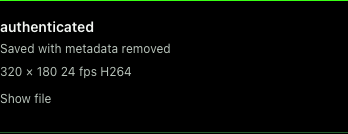
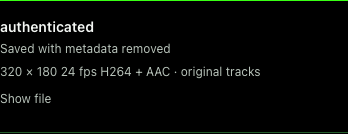
Default to compatible H.264 and AAC MP4 downloads

Changed region(s): [[0.5172, 0.5075, 0.7471, 0.597], [0.3736, 0.4776, 0.4885, 0.5672]]

diff --git a/docs/index.html b/docs/index.html
@@ -30,25 +30,25 @@
       <header class="hero">
         <div>
           <h1>Right-click.<br>Keep quality.<br>Strip metadata.</h1>
-          <p>Video Downloader saves clean MP4s and original images in Chrome.</p>
+          <p>Clean H.264/AAC MP4s by default, plus original images in Chrome.</p>
           <div class="actions"><a class="button" href="https://github.com/Abomination81/video-downloader/releases/latest/download/Video-Downloader.zip">Download installer ZIP</a><a href="#install">How to install</a></div>
         </div>
         <figure class="product">
-          <picture class="product-shot" data-slot="extension" data-kind="product" data-alt="The actual Video Downloader extension with completed MP4 downloads."><source media="(max-width:700px)" srcset="./assets/video-entry.png"><img src="./assets/video-downloads.png" width="380" height="880" fetchpriority="high" alt="The actual extension showing a completed MP4 download with metadata removed."></picture>
+          <picture class="product-shot" data-slot="extension" data-kind="product" data-alt="The actual Video Downloader extension with completed MP4 downloads."><source media="(max-width:700px)" srcset="./assets/video-entry.png"><img src="./assets/video-downloads.png" width="380" height="785" fetchpriority="high" alt="The actual extension showing a completed MP4 download with metadata removed."></picture>
           <figcaption>A verified MP4 in the actual extension.</figcaption>
         </figure>
       </header>
       <section class="section" aria-labelledby="tools">
         <h2 id="tools">Source quality. Original images.</h2>
         <dl class="tools">
-          <div><dt>Download video</dt><dd>Highest available source quality, copied into MP4 without re-encoding.</dd></div>
+          <div><dt>Download video</dt><dd>Highest resolution and frame rate. H.264/AAC by default, converting incompatible tracks when needed.</dd></div>
           <div><dt>Save original image</dt><dd>The largest exposed source, with original format, rotation and animation retained. Identifying metadata removed.</dd></div>
           <div><dt>Leave the page</dt><dd>Background jobs keep running. Finished files appear in Chrome’s download panel and normal download folder.</dd></div>
         </dl>
       </section>
       <section class="section browsing" aria-labelledby="browsing">
-        <div><h2 id="browsing">Copy without blockers.</h2><p>Restore right-click, copying and selection. <strong>Copy clean link</strong> removes tracking while preserving functional URLs.</p><p>Chrome image saves are cleaned after completion. Our image command cleans first. Change defaults in Settings.</p></div>
-        <figure><div class="settings-shot"><img src="./assets/settings.png" width="360" height="1733" loading="lazy" alt="The actual settings screen with right-click, selection, automatic image cleanup and site-session preferences."></div><figcaption>Controls in the actual extension settings.</figcaption></figure>
+        <div><h2 id="browsing">Copy without blockers.</h2><p>Restore right-click, copying and selection. <strong>Copy clean link</strong> removes tracking while preserving functional URLs.</p><p>Chrome image saves are cleaned after completion. Our image command cleans first. Settings also offers Original source video mode.</p></div>
+        <figure><div class="settings-shot"><img src="./assets/settings.png" width="312" height="473" loading="lazy" alt="The actual settings screen with compatible MP4, right-click, selection, automatic image cleanup and site-session preferences."></div><figcaption>Controls in the actual extension settings.</figcaption></figure>
       </section>
       <section class="section install" id="install" aria-labelledby="setup">
         <div><h2 id="setup">One setup.<br>Then right-click.</h2><p>Installs the extension and silent local helper.</p></div>
@@ -63,7 +63,7 @@
       <section class="section coverage" aria-labelledby="coverage">
         <h2 id="coverage">Know what you’re downloading.</h2>
         <div class="coverage-copy">
-          <p>Original files only. No DRM or recording fallback. Technical playback and color data remain. <a href="https://github.com/Abomination81/video-downloader/blob/main/docs/VALIDATION.md">Coverage and validation</a>. <a href="https://github.com/Abomination81/video-downloader/releases/latest">Release notes and checksums</a>.</p>
+          <p>Conversion can be lossy. Original source mode preserves codecs and HDR. Platform upload limits still apply. No DRM or recording fallback. <a href="https://github.com/Abomination81/video-downloader/blob/main/docs/VALIDATION.md">Coverage and validation</a>. <a href="https://github.com/Abomination81/video-downloader/releases/latest">Release notes and checksums</a>.</p>
         </div>
       </section>
     </main>

diff --git a/extension/entrypoints/options/index.html b/extension/entrypoints/options/index.html
@@ -4,12 +4,13 @@
   <header class="topbar"><h1>Video Downloader</h1><span class="muted">Settings</span></header>
   <section class="intro"><img class="intro-art" src="/brand/ghoul.jpg" alt="" width="175" height="175"><div class="eyebrow">An Abomination81 tool</div><h2 id="connection">Checking your helper…</h2><p id="connection-detail" role="status">All downloading and metadata removal happens on your computer.</p><button class="btn" id="check" type="button">Check connection</button></section>
   <div id="notice" class="notice" role="alert" hidden></div>
-  <section class="section"><h2>Download preferences</h2><p class="footnote">Always use the highest available resolution, frame rate, and source quality. Save as MP4 without re-encoding.</p>
+  <section class="section"><h2>Download preferences</h2><p class="footnote">Download the highest available source quality. Compatible MP4 copies H.264/AAC tracks when possible and converts other codecs while keeping resolution and frame rate. Original source mode keeps the source codecs without re-encoding.</p>
   <div class="save-location"><span>Save location</span><strong>Chrome’s Downloads folder</strong></div><p class="footnote">This is normally your computer’s Downloads folder. If you chose another folder in Chrome settings, that choice is respected.</p>
   <div class="settings"><div class="setting"><input id="restore-menus" name="restoreMenus" type="checkbox"><label for="restore-menus">Restore right-click menus<small>Give the browser menu priority on websites that disable right-click or replace it with their own menu.</small></label></div>
   <div class="setting"><input id="restore-copy" name="restoreCopy" type="checkbox"><label for="restore-copy">Enable copying and text selection<small>Restore ordinary browser selection and copying. Text fields and editors keep their normal behavior.</small></label></div>
   <div class="setting"><input id="clean-images" name="cleanImages" type="checkbox"><label for="clean-images">Automatically clean saved images<small>Clean new image downloads after Chrome saves them, including Save image as. Original metadata may briefly exist on disk.</small></label></div>
-  <div class="setting"><input id="use-cookies" name="useCookies" type="checkbox"><label for="use-cookies">Use this site’s signed-in session<small>Only relevant site cookies go to your local helper. They are not stored in download history.</small></label></div></div></section>
+  <div class="setting"><input id="use-cookies" name="useCookies" type="checkbox"><label for="use-cookies">Use this site’s signed-in session<small>Only relevant site cookies go to your local helper. They are not stored in download history.</small></label></div>
+  <div class="setting"><input id="compatible-video" name="compatibleVideo" type="checkbox"><label for="compatible-video">Compatible MP4 (H.264 + AAC)<small>Enabled by default for uploads and broad playback support. Re-encodes incompatible tracks, then removes metadata. Turn off for Original source mode, including HDR.</small></label></div></div></section>
   <section class="section"><h2>Start a download</h2><ol class="steps"><li>Play the video so its stream can be detected.</li><li>Right-click it and choose <strong>Download video</strong>.</li><li>If the menu is blocked, use the extension button or <strong>Alt+Shift+V</strong>.</li></ol><p class="footnote">If several videos match, choose one from the list. DRM, live recording, WebRTC, and some custom players are not supported.</p></section>
   <section class="section"><h2>Everyday shortcuts</h2><p class="footnote">Right-click an image and choose <strong>Save original image</strong> for its largest exposed source, cleaned before saving. Images keep their format, quality, rotation and animation. Use <strong>Copy clean link</strong> on a link or page to copy it without common tracking parameters. Signed and login links stay intact.</p></section>
   <details><summary>Installation and updates</summary><ol class="steps"><li>Run <strong>Install.command</strong> on Mac or <strong>Install-Windows.cmd</strong> on Windows from the download bundle.</li><li>Open <code>chrome://extensions</code> and enable Developer mode.</li><li>Click <strong>Load unpacked</strong> and select the extension folder opened by the installer.</li></ol><p class="footnote">To update, rerun the new bundle’s installer, then click Reload on the extension. Finished video files are kept.</p></details>

diff --git a/extension/lib/ui.ts b/extension/lib/ui.ts
@@ -10,7 +10,7 @@ export async function request<T = unknown>(message: Record<string, unknown>): Pr
 export const el = <T extends HTMLElement = HTMLElement>(selector: string) => document.querySelector<T>(selector)!;
 export function notice(message: string) { const node = el('#notice'); node.textContent = message; node.hidden = false; }
 export const node = (tag: string, text = '', className = '') => { const result = document.createElement(tag); result.textContent = text; result.className = className; return result; };
-const labels: Record<string, string> = { queued: 'Queued', resolving: 'Finding the best quality…', downloading: 'Downloading…', cleaning: 'Removing metadata…', verifying: 'Checking the file…', ready: 'Saving with Chrome…', finalizing: 'Checking Chrome’s saved file…', save_error: 'Chrome needs your attention', done: 'Saved with metadata removed', error: 'Couldn’t finish', cancelled: 'Cancelled', interrupted: 'Interrupted' };
+const labels: Record<string, string> = { queued: 'Queued', resolving: 'Finding the best quality…', downloading: 'Downloading…', converting: 'Preparing compatible H.264/AAC…', cleaning: 'Removing metadata…', verifying: 'Checking the file…', ready: 'Saving with Chrome…', finalizing: 'Checking Chrome’s saved file…', save_error: 'Chrome needs your attention', done: 'Saved with metadata removed', error: 'Couldn’t finish', cancelled: 'Cancelled', interrupted: 'Interrupted' };
 export function renderJobs(jobs: Job[], target: HTMLElement) {
   target.replaceChildren();
   if (!jobs.length) { target.append(node('p', 'Your downloads will appear here.', 'empty')); return; }
@@ -20,7 +20,7 @@ export function renderJobs(jobs: Job[], target: HTMLElement) {
     row.append(node('p', labels[job.state] ?? job.state));
     if (job.detail && job.state === 'done') row.append(node('p', job.detail));
     if (job.error) row.append(node('p', job.error, 'error'));
-    if (['queued', 'resolving', 'downloading', 'cleaning', 'verifying', 'ready', 'finalizing'].includes(job.state)) {
+    if (['queued', 'resolving', 'downloading', 'converting', 'cleaning', 'verifying', 'ready', 'finalizing'].includes(job.state)) {
       const progress = document.createElement('progress');
       progress.max = 100; progress.setAttribute('aria-label', `Progress for ${job.title}`);
       if (job.state === 'downloading' && job.progress > 0) progress.value = job.progress;
@@ -31,7 +31,7 @@ export function renderJobs(jobs: Job[], target: HTMLElement) {
       retry.onclick = async () => { retry.disabled = true; try { await request({ type: 'retry-save', jobId: job.id }); } catch (error) { notice((error as Error).message); } finally { retry.disabled = false; } };
       row.append(retry);
     }
-    if (job.state === 'done' || ['queued', 'resolving', 'downloading', 'cleaning', 'verifying', 'ready', 'save_error'].includes(job.state)) {
+    if (job.state === 'done' || ['queued', 'resolving', 'downloading', 'converting', 'cleaning', 'verifying', 'ready', 'save_error'].includes(job.state)) {
       const button = document.createElement('button');
       button.type = 'button'; button.className = 'link-button';
       button.textContent = job.state === 'done' ? 'Show file' : 'Cancel';

diff --git a/extension/entrypoints/popup/index.html b/extension/entrypoints/popup/index.html
@@ -3,7 +3,7 @@
 <head><meta charset="utf-8"><meta name="viewport" content="width=device-width,initial-scale=1"><meta name="description" content="Highest-quality MP4 downloads with identifying metadata removed. Built by abomination81."><title>Video Downloader · Abomination81</title><link rel="icon" href="/icon-48.png"><link rel="stylesheet" href="../../assets/app.css"></head>
 <body class="popup"><main>
   <header class="topbar"><h1>Video Downloader</h1><a href="../options.html" target="_blank">Settings</a></header>
-  <section class="intro"><img class="intro-art" src="/brand/ghoul.jpg" alt="" width="175" height="175"><div class="eyebrow">An Abomination81 tool</div><h2>Keep the video.</h2><p>Highest available quality.<br>Identifying metadata removed.</p><button class="btn" id="download" type="button"><svg width="17" height="17" viewBox="0 0 24 24" fill="none" stroke="currentColor" stroke-width="2" aria-hidden="true"><path d="M12 3v12m-5-5 5 5 5-5M4 16v5h16v-5"/></svg>Download video</button><p id="helper-status" role="status">Connecting to your local helper…</p></section>
+  <section class="intro"><img class="intro-art" src="/brand/ghoul.jpg" alt="" width="175" height="175"><div class="eyebrow">An Abomination81 tool</div><h2>Keep the video.</h2><p>Compatible MP4 by default.<br>Identifying metadata removed.</p><button class="btn" id="download" type="button"><svg width="17" height="17" viewBox="0 0 24 24" fill="none" stroke="currentColor" stroke-width="2" aria-hidden="true"><path d="M12 3v12m-5-5 5 5 5-5M4 16v5h16v-5"/></svg>Download video</button><p id="helper-status" role="status">Connecting to your local helper…</p></section>
   <div id="notice" class="notice" role="alert" hidden></div>
   <section id="choices" class="section" hidden><h2>Choose a video</h2><div id="candidates"></div></section>
   <section class="section"><div class="section-head"><h2>Downloads</h2><button id="clear" class="link-button" type="button">Clear history</button></div><div id="jobs" aria-live="polite"><p class="empty">Loading downloads…</p></div></section>

diff --git a/extension/entrypoints/options/main.ts b/extension/entrypoints/options/main.ts
@@ -18,8 +18,9 @@ async function init() {
   el<HTMLInputElement>('#restore-copy').checked = settings.restoreCopy;
   el<HTMLInputElement>('#clean-images').checked = settings.cleanImages;
   el<HTMLInputElement>('#use-cookies').checked = settings.useCookies;
-  for (const id of ['#restore-menus', '#restore-copy', '#clean-images', '#use-cookies']) el<HTMLInputElement>(id).onchange = async () => {
-    try { await chrome.storage.local.set({ settings: { restoreMenus: el<HTMLInputElement>('#restore-menus').checked, restoreCopy: el<HTMLInputElement>('#restore-copy').checked, cleanImages: el<HTMLInputElement>('#clean-images').checked, useCookies: el<HTMLInputElement>('#use-cookies').checked } }); }
+  el<HTMLInputElement>('#compatible-video').checked = settings.compatibleVideo;
+  for (const id of ['#restore-menus', '#restore-copy', '#clean-images', '#use-cookies', '#compatible-video']) el<HTMLInputElement>(id).onchange = async () => {
+    try { await chrome.storage.local.set({ settings: { restoreMenus: el<HTMLInputElement>('#restore-menus').checked, restoreCopy: el<HTMLInputElement>('#restore-copy').checked, cleanImages: el<HTMLInputElement>('#clean-images').checked, useCookies: el<HTMLInputElement>('#use-cookies').checked, compatibleVideo: el<HTMLInputElement>('#compatible-video').checked } }); }
     catch { notice('The preference could not be saved. Try again.'); }
   };
   await check();

diff --git a/extension/entrypoints/background.ts b/extension/entrypoints/background.ts
@@ -150,7 +150,7 @@ export default defineBackground(() => {
         if (parsed.success) cookies.set(`${c.domain}\t${c.path}\t${c.name}`, parsed.data);
       }
     }
-    const result = z.object({ jobId: z.string().regex(/^[0-9a-f]{32}$/) }).parse(await native('start', { requestId, title: candidate.title, sources: candidate.sources, cookies: [...cookies.values()].slice(0, 500), browserDownload: true, assetType, ...(imageData ? { imageData } : {}) }));
+    const result = z.object({ jobId: z.string().regex(/^[0-9a-f]{32}$/) }).parse(await native('start', { requestId, title: candidate.title, sources: candidate.sources, cookies: [...cookies.values()].slice(0, 500), browserDownload: true, assetType, outputProfile: value.compatibleVideo ? 'compatible' : 'original', ...(imageData ? { imageData } : {}) }));
     await downloads.track(result.jobId);
     await chrome.storage.session.remove(['lastError', 'choices']);
     await chrome.action.setBadgeText({ text: '↓' });

diff --git a/extension/lib/schema.ts b/extension/lib/schema.ts
@@ -64,6 +64,6 @@ export const jobSchema = z.object({
   detail: z.string().nullable(), created: z.number(),
 }).passthrough();
 export type Job = z.infer<typeof jobSchema>;
-export const settingsSchema = z.object({ restoreMenus: z.boolean().default(true), restoreCopy: z.boolean().default(true), cleanImages: z.boolean().default(true), useCookies: z.boolean().default(true) });
+export const settingsSchema = z.object({ restoreMenus: z.boolean().default(true), restoreCopy: z.boolean().default(true), cleanImages: z.boolean().default(true), useCookies: z.boolean().default(true), compatibleVideo: z.boolean().default(true) });
 export type Settings = z.infer<typeof settingsSchema>;
-export const defaults: Settings = { restoreMenus: true, restoreCopy: true, cleanImages: true, useCookies: true };
+export const defaults: Settings = { restoreMenus: true, restoreCopy: true, cleanImages: true, useCookies: true, compatibleVideo: true };

diff --git a/docs/site/page.css b/docs/site/page.css
@@ -46,9 +46,9 @@ details p{margin-top:var(--space-md)}
 details:not([open])>p{display:none}
 .browsing{display:grid;grid-template-columns:minmax(0,1fr) minmax(0,1fr);gap:var(--gap-columns);align-items:center}
 .browsing p+p{margin-top:var(--space-lg)}
-.browsing figure{margin:0;max-width:360px}
-.settings-shot{aspect-ratio:360/368;overflow:clip}
-.settings-shot img{width:100%;height:100%;object-fit:cover;object-position:center 47.4%}
+.browsing figure{margin:0;max-width:312px}
+.settings-shot{overflow:clip}
+.settings-shot img{width:100%;height:auto;object-fit:contain}
 .coverage-copy{font-size:clamp(1.5rem,3vw,2.5rem);line-height:1.6;max-width:45ch}
 code{font-size:var(--text-sm);overflow-wrap:anywhere}
 footer{display:flex;align-items:center;justify-content:space-between;gap:var(--space-lg);flex-wrap:wrap;padding-block:var(--space-xl);border-top:1px solid var(--color-rule);font-size:var(--text-sm)}

diff --git a/tests/settings.test.ts b/tests/settings.test.ts
@@ -1,0 +1,14 @@
+import { describe, expect, it } from 'vitest';
+import { settingsSchema } from '../extension/lib/schema';
+
+describe('output defaults', () => {
+  it('upgrades old preferences to compatible output without resetting other choices', () => {
+    const parsed = settingsSchema.parse({ restoreMenus: false, useCookies: false });
+    expect(parsed.compatibleVideo).toBe(true);
+    expect(parsed.restoreMenus).toBe(false);
+    expect(parsed.useCookies).toBe(false);
+  });
+  it('preserves an explicit original-source preference', () => {
+    expect(settingsSchema.parse({ compatibleVideo: false }).compatibleVideo).toBe(false);
+  });
+});

diff --git a/wxt.config.ts b/wxt.config.ts
@@ -10,7 +10,7 @@ export default defineConfig({
     name: 'Video Downloader by Abomination81',
     description: 'Clean video and original-image downloads, restored copying and right-click, and tracker-free links. Built by abomination81.',
     homepage_url: 'https://abomination81.com',
-    version: '0.3.0',
+    version: '0.4.0',
     key: identity.key,
     minimum_chrome_version: '127',
     permissions: ['contextMenus', 'nativeMessaging', 'storage', 'webRequest', 'webNavigation', 'cookies', 'downloads', 'alarms', 'scripting', 'offscreen', 'clipboardWrite'],

diff --git a/helper/tests/test_compatibility.py b/helper/tests/test_compatibility.py
@@ -1,0 +1,124 @@
+import hashlib
+import subprocess
+import uuid
+from pathlib import Path
+
+import av
+import pytest
+
+from video_downloader import store
+from video_downloader.compatibility import prepare
+from video_downloader.media import Cancelled, MediaError, probe, sanitize
+from video_downloader.models import Start
+from video_downloader.worker import run_job
+
+
+def encode(*args):
+    subprocess.run(['ffmpeg', '-v', 'error', '-nostdin', '-y', *map(str, args)], check=True, capture_output=True)
+
+
+def track_hash(path, kind):
+    result = hashlib.sha256()
+    with av.open(str(path)) as media:
+        for packet in media.demux(**{kind: 0}):
+            if packet.size: result.update(bytes(packet))
+    return result.hexdigest()
+
+
+def test_existing_h264_aac_is_never_reencoded(media_files, tmp_path):
+    source = media_files/'source.mp4'
+    target = tmp_path/'compatible.mp4'
+    path, converted = prepare(source, target)
+    assert path == source and not converted and not target.exists()
+
+
+def test_av1_opus_becomes_h264_aac_and_is_cleaned(media_files, tmp_path):
+    source = tmp_path/'av1-opus.mkv'
+    encode('-i', media_files/'av1.mkv', '-i', media_files/'source.mp4', '-map', '0:v:0', '-map', '1:a:0', '-c:v', 'copy', '-c:a', 'libopus', '-shortest', source)
+    original = hashlib.sha256(source.read_bytes()).digest()
+    prepared, converted = prepare(source, tmp_path/'converted.mp4')
+    assert converted
+    clean = tmp_path/'clean.mp4'
+    sanitize(prepared, clean)
+    streams = probe(clean)['streams']
+    assert [(s['codec_name'], s.get('profile')) for s in streams] == [('h264', 'High'), ('aac', 'LC')]
+    assert streams[0]['pix_fmt'] == 'yuv420p'
+    assert (streams[0]['width'], streams[0]['height']) == (160, 96)
+    assert streams[1]['channels'] == 1
+    assert float(streams[0]['start_time']) < 0.1 and float(streams[1]['start_time']) < 0.1
+    assert b'PRIVATE_' not in clean.read_bytes() and b'x264 - core' not in clean.read_bytes()
+    assert hashlib.sha256(source.read_bytes()).digest() == original
+    for file in [source, clean]:
+        with av.open(str(file)) as media:
+            count = sum(1 for _ in media.decode(video=0))
+        if file == source: frames = count
+        else: assert count == frames
+
+
+def test_only_opus_audio_is_reencoded_when_video_already_compatible(media_files, tmp_path):
+    source = tmp_path/'h264-opus.mkv'
+    encode('-i', media_files/'source.mp4', '-c:v', 'copy', '-c:a', 'libopus', source)
+    output, converted = prepare(source, tmp_path/'compatible.mp4')
+    assert converted and track_hash(source, 'video') == track_hash(output, 'video')
+    assert probe(output)['streams'][1]['codec_name'] == 'aac'
+
+
+def test_unsupported_video_without_audio_stays_silent(media_files, tmp_path):
+    source = media_files/'vp9.webm'
+    output, converted = prepare(source, tmp_path/'compatible.mp4')
+    assert converted
+    streams = probe(output)['streams']
+    assert len(streams) == 1 and streams[0]['codec_name'] == 'h264'
+
+
+def test_hdr_is_not_silently_exported_with_wrong_colors(media_files, tmp_path):
+    with pytest.raises(MediaError) as error:
+        prepare(media_files/'hdr.mp4', tmp_path/'compatible.mp4')
+    assert error.value.code == 'hdr_conversion_unavailable'
+    assert not (tmp_path/'compatible.mp4').exists()
+
+
+def test_cancellation_removes_an_unfinished_conversion(media_files, tmp_path):
+    with pytest.raises(Cancelled): prepare(media_files/'vp9.webm', tmp_path/'compatible.mp4', lambda: True)
+    assert not (tmp_path/'compatible.mp4').exists()
+
+
+@pytest.mark.parametrize('mode,expected', [('compatible', 'h264'), ('original', 'vp9')])
+def test_real_job_obeys_output_mode(isolated_app, media_server, mode, expected):
+    request = Start(id='test', type='start', requestId=str(uuid.uuid4()), title='Fixture', sources=[{'url':media_server+'/vp9.webm','kind':'file'}], outputProfile=mode)
+    job, _ = store.create(request.requestId, request.title)
+    run_job(request, job)
+    row = store.get(job)
+    assert row['state'] == 'done', row
+    from video_downloader.config import output_dir
+    assert probe(output_dir()/row['filename'])['streams'][0]['codec_name'] == expected
+
+
+def test_old_extension_requests_default_to_compatible_output():
+    request = Start(id='old', type='start', requestId=str(uuid.uuid4()), sources=[{'url':'https://example.com/video','kind':'page'}])
+    assert request.outputProfile == 'compatible'
+
+
+def test_conversion_counts_as_active_for_capacity_and_installer(isolated_app):
+    import importlib.util
+    for _ in range(3):
+        job, _ = store.create(str(uuid.uuid4()), 'Encoding')
+        store.update(job, state='converting')
+    with pytest.raises(ValueError, match='queue_full'): store.create(str(uuid.uuid4()), 'Fourth job')
+    spec = importlib.util.spec_from_file_location('installer', Path(__file__).resolve().parents[2]/'scripts/install.py')
+    installer = importlib.util.module_from_spec(spec)
+    spec.loader.exec_module(installer)
+    with pytest.raises(RuntimeError, match='current downloads'): installer.ensure_idle(isolated_app)
+
+
+@pytest.mark.parametrize('mode,higher,expected', [('compatible', False, 'avc480'), ('compatible', True, 'av1720'), ('original', False, 'av1480')])
+def test_format_choice_avoids_reencoding_without_a_resolution_downgrade(mode, higher, expected, tmp_path):
+    import yt_dlp
+    from video_downloader.models import Source
+    from video_downloader.worker import engine_options
+    formats = [{'format_id':name,'url':'https://example.com/'+name+'.mp4','ext':'mp4','width':width,'height':height,'fps':30,'vcodec':codec,'acodec':'mp4a.40.2','abr':128,'tbr':1000} for name,width,height,codec in [('avc480',854,480,'avc1.64001e'),('av1480',854,480,'av01.0.04M.08')]]
+    if higher: formats.append({**formats[1], 'format_id':'av1720', 'width':1280, 'height':720})
+    options = engine_options(Source(url='https://example.com/watch',kind='page'), tmp_path, lambda _:None, output_profile=mode)
+    with yt_dlp.YoutubeDL(options) as client:
+        info = client.process_ie_result({'id':'fixture','title':'Fixture','formats':formats},download=False)
+    assert info['format_id'] == expected

diff --git a/helper/video_downloader/compatibility.py b/helper/video_downloader/compatibility.py
@@ -1,0 +1,91 @@
+"""Prepare broadly supported H.264/AAC tracks before metadata sanitizing."""
+import math
+from fractions import Fraction
+from pathlib import Path
+
+from .config import binary
+from .media import MediaError, frame_side_data, probe, run
+
+
+def compatible_video(video):
+    return (video.get('codec_name') == 'h264' and video.get('pix_fmt') == 'yuv420p'
+            and video.get('profile') in ('Baseline', 'Constrained Baseline', 'Main', 'High')
+            and video.get('field_order', 'progressive') in ('progressive', 'unknown')
+            and not is_hdr(video))
+
+
+def compatible_audio(audio):
+    return audio.get('codec_name') == 'aac' and audio.get('profile') == 'LC' and audio.get('channels', 0) in (1, 2)
+
+
+def is_hdr(video):
+    return video.get('color_transfer') in ('smpte2084', 'arib-std-b67') or any(any(name in item.get('side_data_type', '') for name in ('DOVI', 'Mastering display', 'Content light level')) for item in video.get('side_data_list', []))
+
+
+def frame_rate(video):
+    try: return float(Fraction(video.get('avg_frame_rate') or video.get('r_frame_rate') or '0'))
+    except (ValueError, ZeroDivisionError): return 0
+
+
+def prepare(source: Path, target: Path, cancelled=lambda: False):
+    before = probe(source, cancelled)
+    video = next((s for s in before['streams'] if s.get('codec_type') == 'video' and not s.get('disposition', {}).get('attached_pic')), None)
+    audio = [s for s in before['streams'] if s.get('codec_type') == 'audio']
+    if video is None: raise MediaError('video_missing', 'No video track was found.')
+    video = {**video, 'side_data_list': [*video.get('side_data_list', []), *frame_side_data(source, cancelled)]}
+    video_copy = compatible_video(video)
+    audio_copy = all(compatible_audio(s) for s in audio)
+    if video_copy and audio_copy:
+        return source, False
+    if is_hdr(video):
+        # Casting PQ/HLG into ordinary 8-bit H.264 without a verified tone map
+        # would produce washed-out colors. Keep the original-mode route honest.
+        raise MediaError('hdr_conversion_unavailable', 'This source needs HDR-to-SDR tone mapping. Turn off Compatible MP4 in Settings to use Original source mode and preserve its HDR colors.')
+    filters = []
+    if video.get('field_order') not in (None, 'progressive', 'unknown'):
+        filters.append('bwdif=mode=send_frame:parity=auto:deint=all')
+    if video.get('width', 0) % 2 or video.get('height', 0) % 2:
+        filters.append('pad=ceil(iw/2)*2:ceil(ih/2)*2')
+    command = [binary('ffmpeg'), '-v', 'error', '-xerror', '-nostdin', '-y', '-noautorotate', '-i', str(source),
+               '-map', f"0:{video['index']}", '-map', '0:a?', '-sn', '-dn', '-map_metadata', '-1', '-map_chapters', '-1']
+    if video_copy:
+        command += ['-c:v', 'copy']
+    else:
+        command += ['-c:v', 'libx264', '-preset', 'medium', '-crf', '18', '-profile:v', 'high', '-pix_fmt', 'yuv420p', '-flags:v', '+cgop', '-fps_mode:v', 'passthrough']
+        if filters: command += ['-vf', ','.join(filters)]
+    for index, track in enumerate(audio):
+        if compatible_audio(track):
+            command += [f'-c:a:{index}', 'copy']
+        else:
+            command += [f'-c:a:{index}', 'aac', f'-profile:a:{index}', 'aac_low', f'-b:a:{index}', '192k', f'-ac:a:{index}', str(min(2, track.get('channels') or 2))]
+    command += ['-movflags', '+faststart', str(target)]
+    duration = float(before.get('format', {}).get('duration') or 0)
+    try:
+        run(command, cancelled, min(86400, max(3600, duration * 6)))
+        after = probe(target, cancelled)
+        final = next(s for s in after['streams'] if s.get('codec_type') == 'video')
+        final_audio = [s for s in after['streams'] if s.get('codec_type') == 'audio']
+        expected_width, expected_height = math.ceil(video['width'] / 2) * 2, math.ceil(video['height'] / 2) * 2
+        if not compatible_video(final) or not all(compatible_audio(s) for s in final_audio) or len(audio) != len(final_audio):
+            raise MediaError('compatibility_failed', 'The compatible MP4 codecs could not be verified. No unverified file was saved.')
+        if (final['width'], final['height']) != (expected_width, expected_height) or (not video_copy and frame_rate(video) > 0 and abs(frame_rate(video) - frame_rate(final)) > max(0.02, frame_rate(video) * 0.001)):
+            raise MediaError('compatibility_failed', 'The video size or frame rate changed unexpectedly during conversion.')
+        if video.get('nb_frames') and final.get('nb_frames') and video['nb_frames'] != final['nb_frames']:
+            raise MediaError('frames_missing', 'Conversion lost video frames. No incomplete file was saved.')
+        if abs(duration - float(after.get('format', {}).get('duration') or 0)) > max(0.2, duration * 0.001):
+            raise MediaError('compatibility_failed', 'The converted file has an unexpected duration. No incomplete file was saved.')
+        for old, new in zip([video, *audio], [final, *final_audio]):
+            old_start = float(old.get('start_time') or 0) - float(before.get('format', {}).get('start_time') or 0)
+            new_start = float(new.get('start_time') or 0) - float(after.get('format', {}).get('start_time') or 0)
+            if abs(old_start - new_start) > 0.1:
+                raise MediaError('timing_changed', 'Conversion changed the opening or audio/video timing. No damaged file was saved.')
+        for name in ('color_primaries', 'color_transfer', 'color_space'):
+            if video.get(name) not in (None, 'unknown') and video.get(name) != final.get(name):
+                raise MediaError('color_changed', 'Conversion changed the video color information. Select Original source mode to preserve this format.')
+        for side in video.get('side_data_list', []):
+            if side.get('side_data_type') in ('Display Matrix', '3x3 displaymatrix') and side not in final.get('side_data_list', []):
+                raise MediaError('orientation_changed', 'Conversion changed the display orientation. No altered file was saved.')
+        return target, True
+    except BaseException:
+        target.unlink(missing_ok=True)
+        raise
